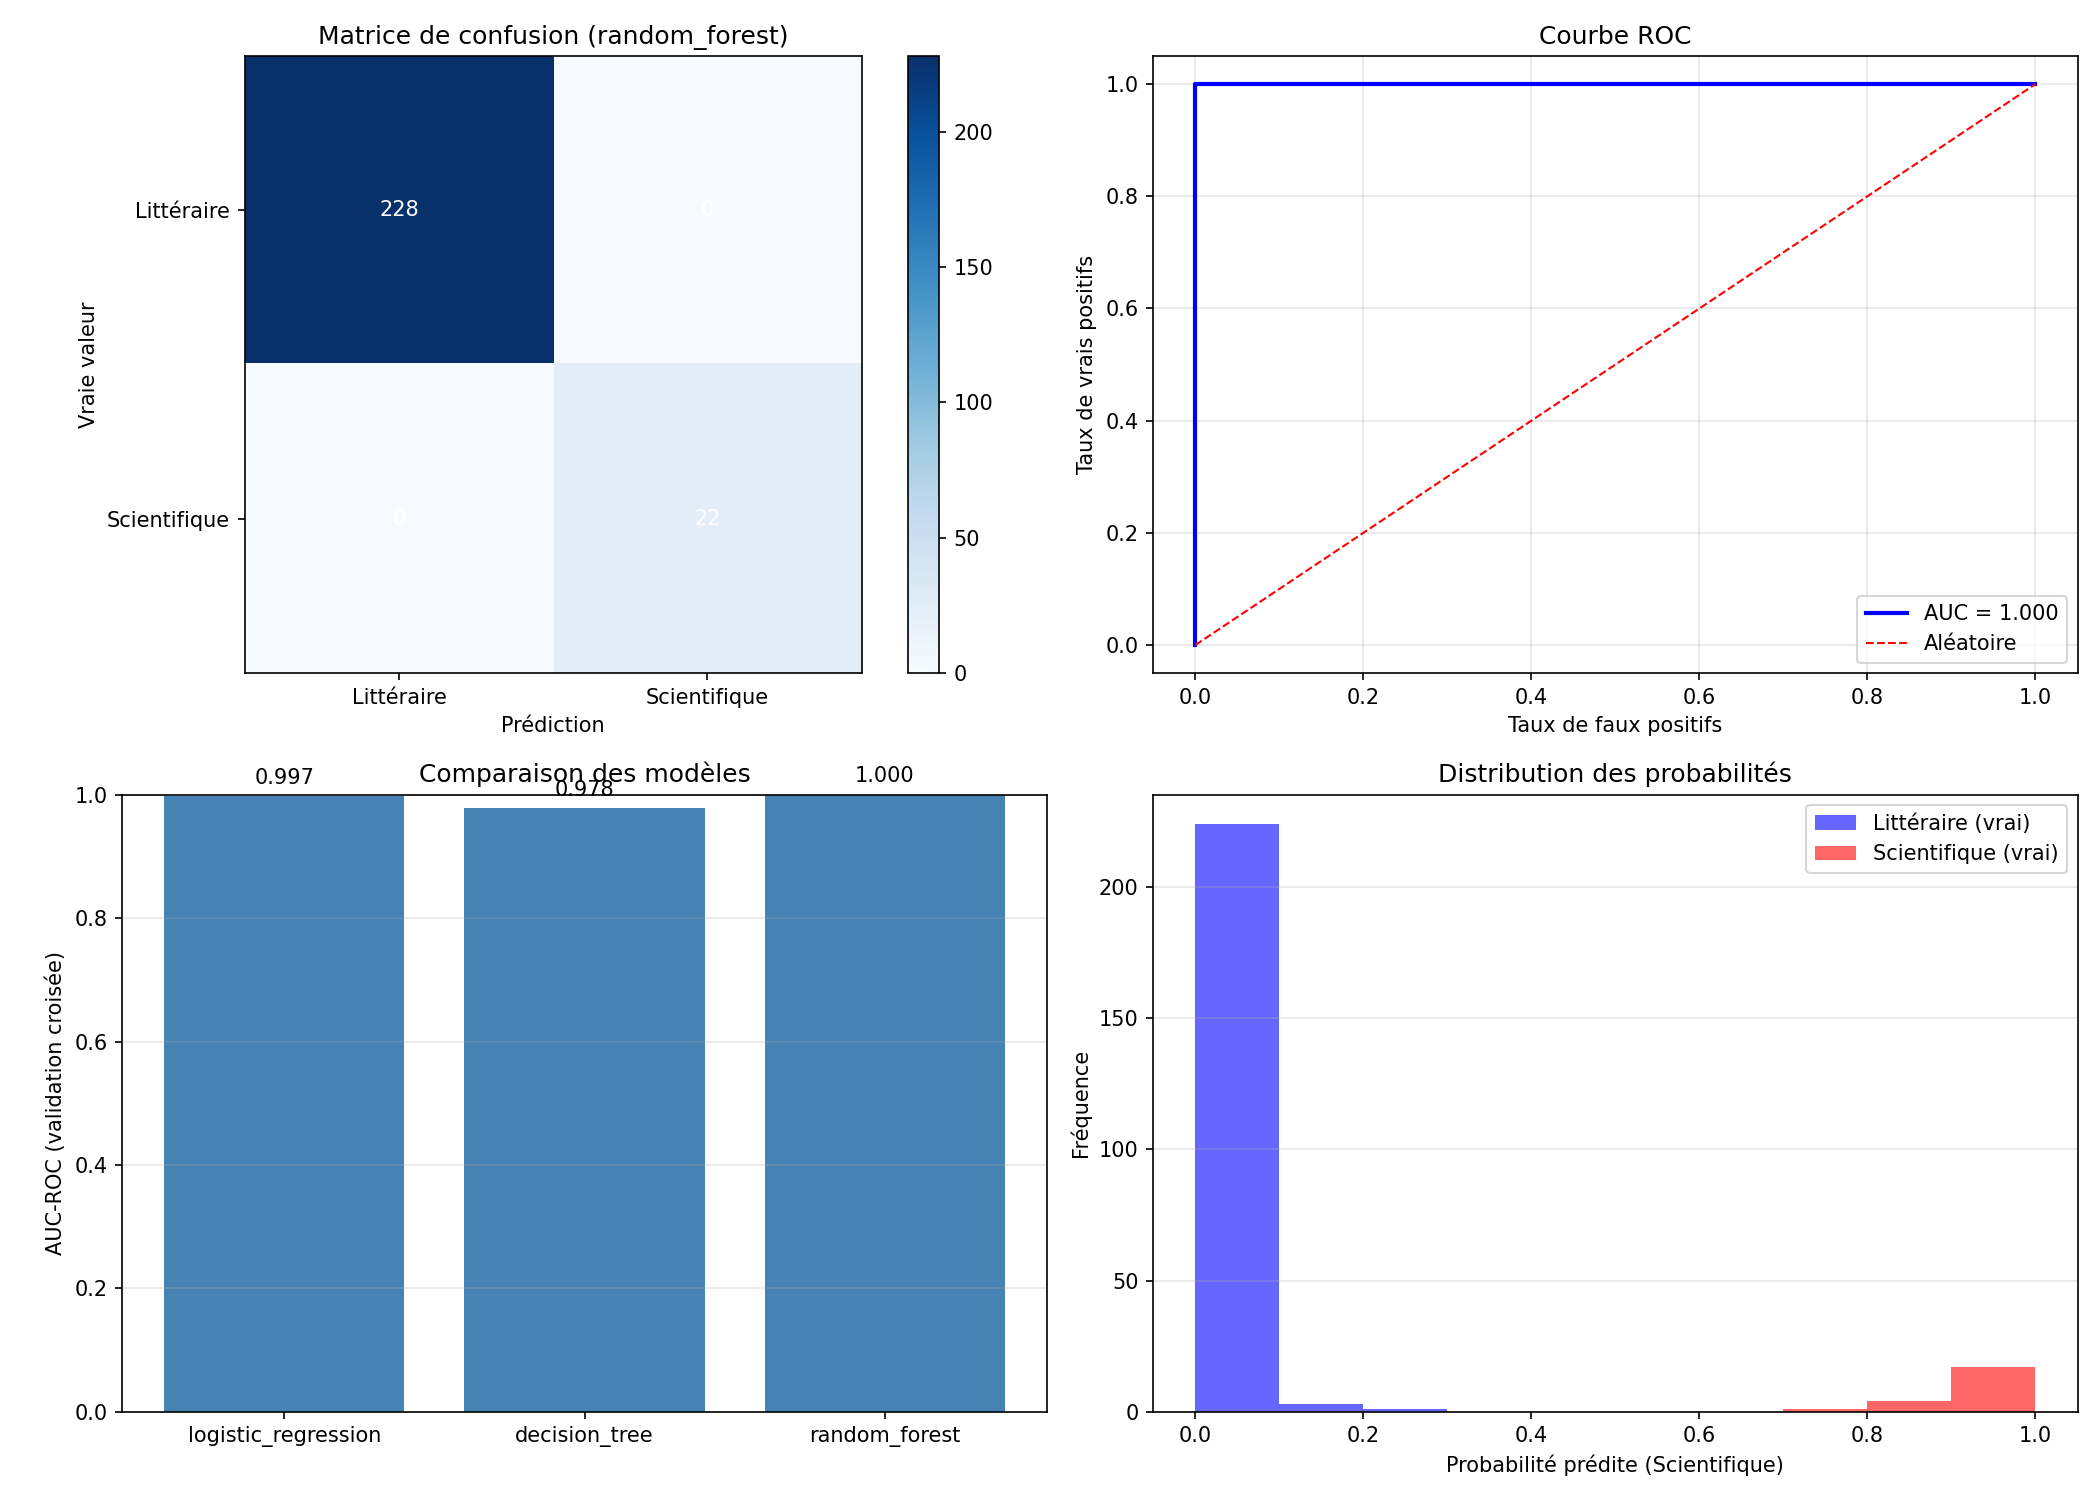
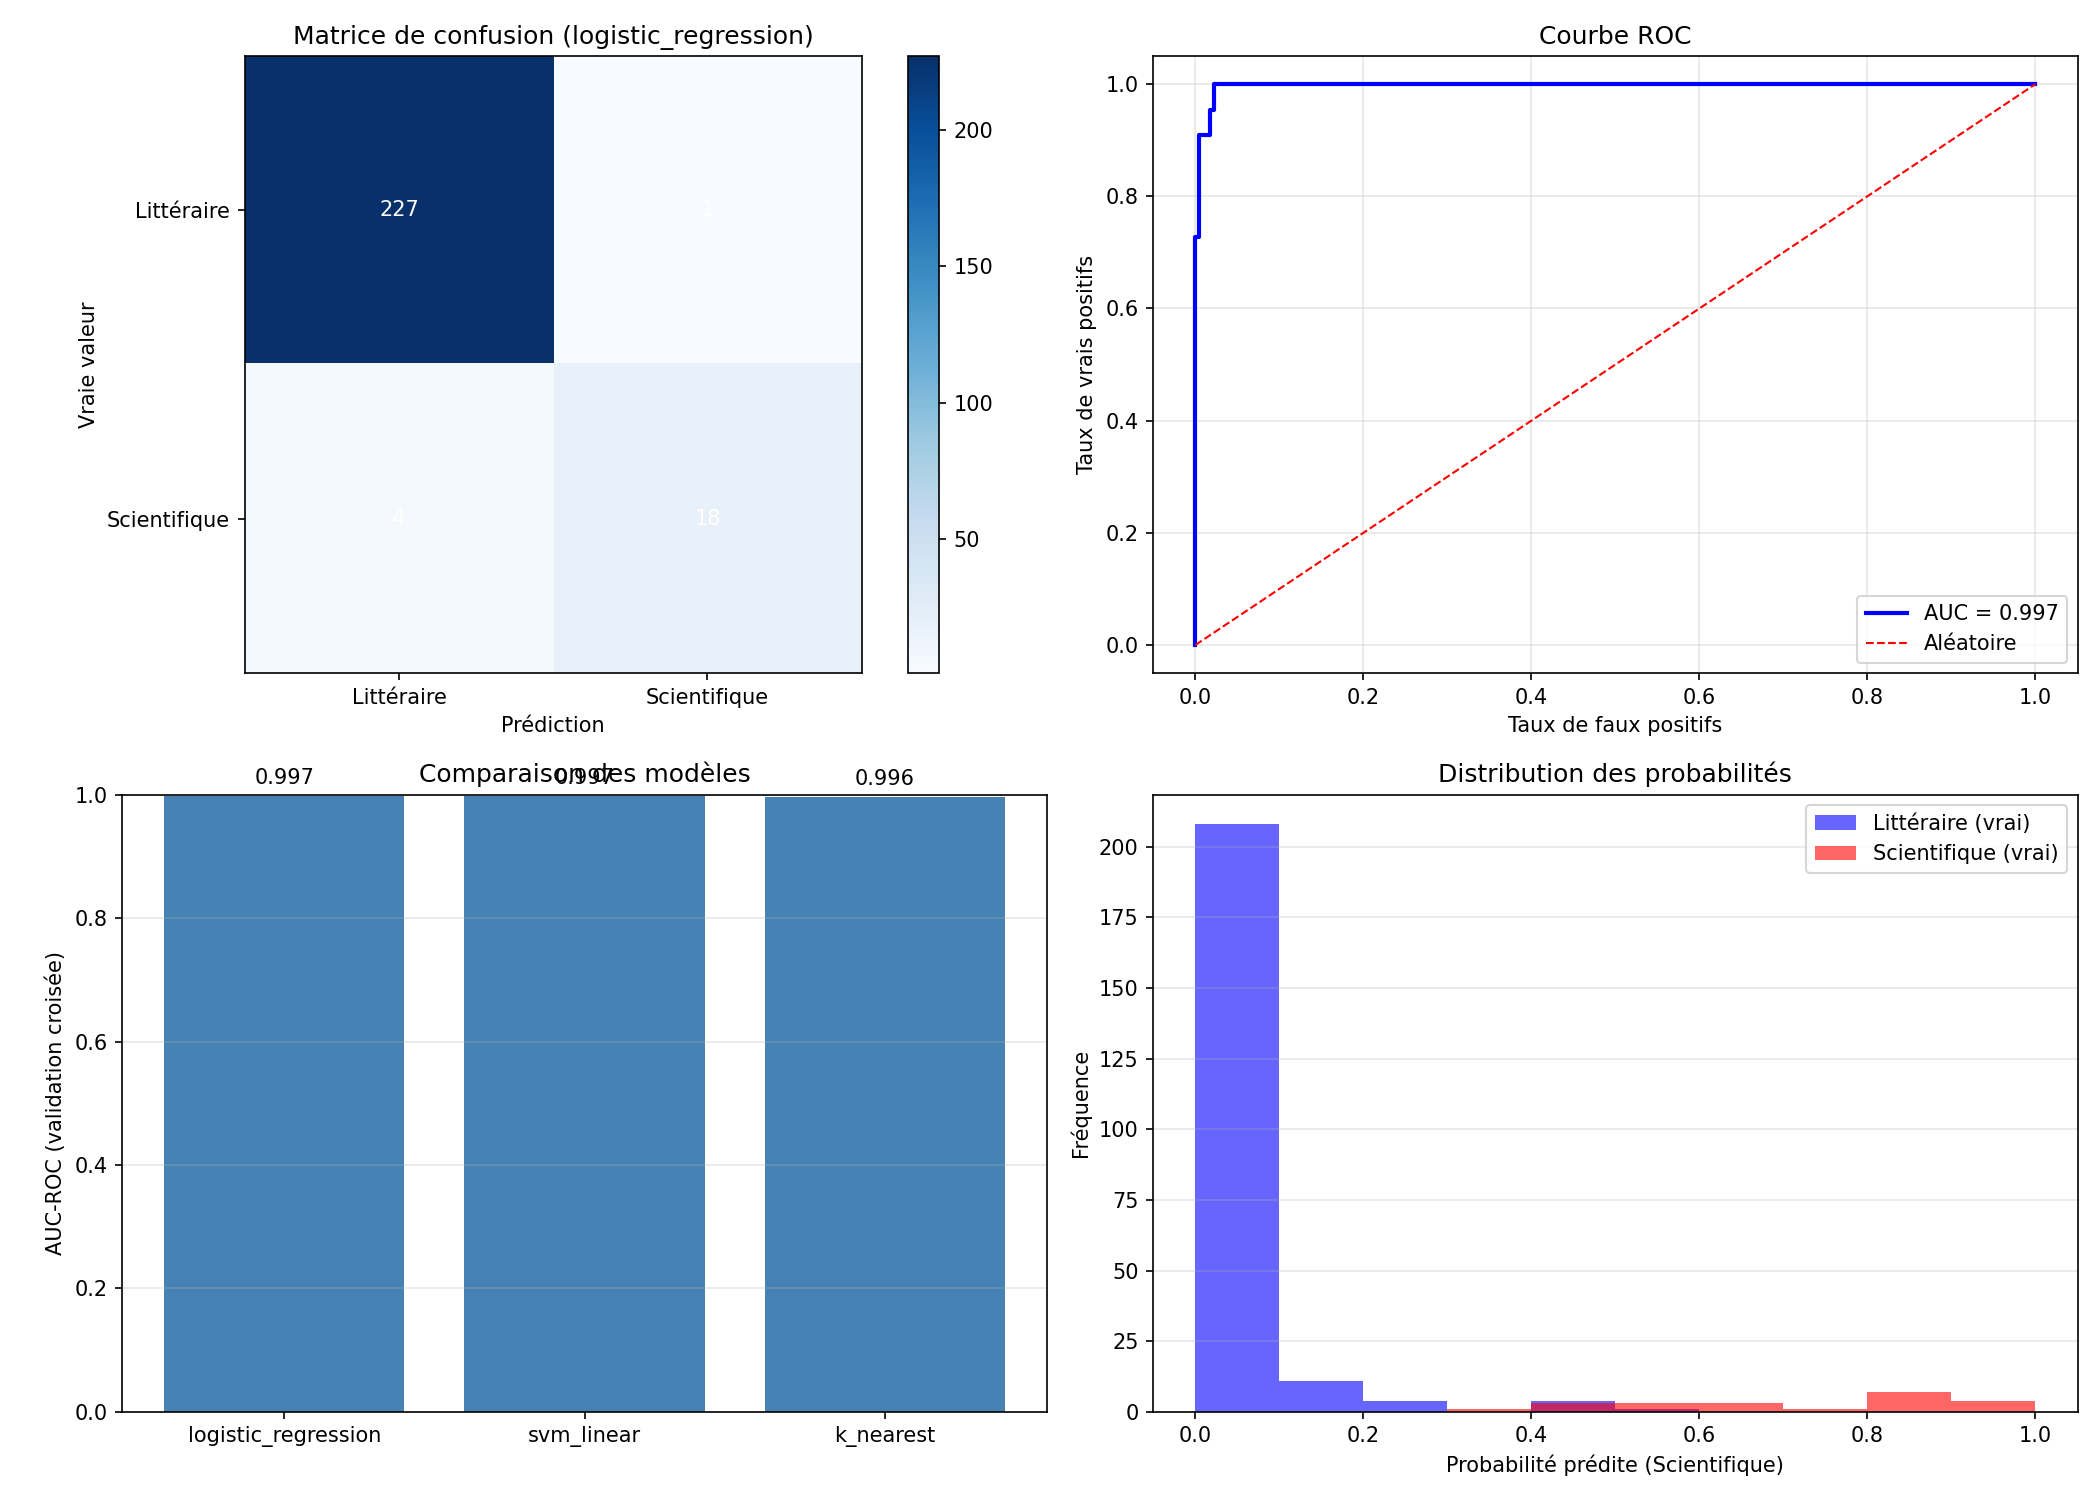
Apply project constraints: remove skewness/kurtosis; restrict classifiers to logistic/SVM/k-NN; update report

diff --git a/scripts_analyses/analysis_q4.py b/scripts_analyses/analysis_q4.py
@@ -10,8 +10,10 @@ from pathlib import Path
 import matplotlib.pyplot as plt
 import numpy as np
 import pandas as pd
-from sklearn.ensemble import RandomForestClassifier
 from sklearn.linear_model import LogisticRegression
+from sklearn.svm import SVC
+from sklearn.neighbors import KNeighborsClassifier
+from sklearn.dummy import DummyClassifier
 from sklearn.metrics import (
     classification_report,
     confusion_matrix,
@@ -36,10 +38,12 @@ def analyze_classification(dataset_path: str) -> None:
 
     skf = StratifiedKFold(n_splits=5, shuffle=True, random_state=42)
 
+    # Use only allowed supervised classifiers: centroid-approach (implemented via KMeans centroids + nearest centroid),
+    # k-NN, linear models and SVM. We'll provide LogisticRegression (linear), SVC (linear kernel) and KNeighborsClassifier.
     models = {
         "logistic_regression": LogisticRegression(random_state=42, max_iter=1000),
-        "decision_tree": DecisionTreeClassifier(random_state=42, max_depth=5),
-        "random_forest": RandomForestClassifier(n_estimators=100, random_state=42, max_depth=5),
+        "svm_linear": SVC(kernel="linear", probability=True, random_state=42),
+        "k_nearest": KNeighborsClassifier(n_neighbors=5),
     }
 
     results = {"models": {}}
@@ -62,7 +66,13 @@ def analyze_classification(dataset_path: str) -> None:
         # Train on the full dataset for final metrics.
         model.fit(X_scaled, y)
         y_pred = model.predict(X_scaled)
-        y_proba = model.predict_proba(X_scaled)[:, 1]
+        # Some estimators (SVC) may provide `predict_proba` when probability=True, otherwise use decision_function.
+        try:
+            y_proba = model.predict_proba(X_scaled)[:, 1]
+        except Exception:
+            # fallback to decision_function scaled to [0,1]
+            df_scores = model.decision_function(X_scaled)
+            y_proba = (df_scores - df_scores.min()) / (df_scores.max() - df_scores.min()) if df_scores.max() > df_scores.min() else np.zeros_like(df_scores)
 
         cm = confusion_matrix(y, y_pred)
         tn, fp, fn, tp = cm.ravel()
@@ -105,7 +115,11 @@ def analyze_classification(dataset_path: str) -> None:
     best_model = models[best_model_name]
     best_model.fit(X_scaled, y)
     y_pred_best = best_model.predict(X_scaled)
-    y_proba_best = best_model.predict_proba(X_scaled)[:, 1]
+    try:
+        y_proba_best = best_model.predict_proba(X_scaled)[:, 1]
+    except Exception:
+        df_scores = best_model.decision_function(X_scaled)
+        y_proba_best = (df_scores - df_scores.min()) / (df_scores.max() - df_scores.min()) if df_scores.max() > df_scores.min() else np.zeros_like(df_scores)
 
     cm_best = confusion_matrix(y, y_pred_best)
     tn_b, fp_b, fn_b, tp_b = cm_best.ravel()

diff --git a/scripts_analyses/analysis_q1.py b/scripts_analyses/analysis_q1.py
@@ -26,9 +26,7 @@ def analyze_univariate(dataset_path: str) -> None:
     q75_val = score_eval.quantile(0.75)
     iqr = q75_val - q25_val
 
-    # Compute shape measures: skewness and kurtosis.
-    skewness = stats.skew(score_eval)
-    kurtosis = stats.kurtosis(score_eval)
+    # (Removed skewness and kurtosis per project constraints.)
 
     # Detect outliers using IQR and z-score methods.
     lower_bound = q25_val - 1.5 * iqr
@@ -49,8 +47,7 @@ def analyze_univariate(dataset_path: str) -> None:
         "q25": round(q25_val, 2),
         "q75": round(q75_val, 2),
         "iqr": round(iqr, 2),
-        "skewness": round(skewness, 2),
-        "kurtosis": round(kurtosis, 2),
+        # shape measures removed
         "outliers_iqr": len(outliers),
         "outliers_zscore": len(z_outliers),
     }
@@ -65,15 +62,7 @@ def analyze_univariate(dataset_path: str) -> None:
     print(f"Écart-type : {results['ecart_type']}")
     print(f"Plage (min–max) : [{results['min']}, {results['max']}]")
     print(f"Quartiles Q1–Q3 : [{results['q25']}, {results['q75']}]")
-    print(f"Asymétrie (skewness) : {results['skewness']}")
-
-    print(f"  → Interprétation : ", end="")
-    if abs(results['skewness']) < 0.5:
-        print("Distribution symétrique")
-    elif results['skewness'] > 0:
-        print("Queue vers la droite (meilleurs résultats)")
-    else:
-        print("Queue vers la gauche (résultats plus faibles)")
+    print("Remarque : les mesures de forme (skewness, kurtosis) ont été retirées du projet.")
 
     print(f"Valeurs atypiques détectées (IQR) : {results['outliers_iqr']}")
     if len(outliers) > 0:

diff --git a/scripts_analyses/analysis_q4_simple.py b/scripts_analyses/analysis_q4_simple.py
@@ -8,8 +8,9 @@ import numpy as np
 from sklearn.preprocessing import StandardScaler, LabelEncoder
 from sklearn.model_selection import train_test_split, cross_val_score, StratifiedKFold
 from sklearn.linear_model import LogisticRegression
-from sklearn.ensemble import RandomForestClassifier
 from sklearn.tree import DecisionTreeClassifier
+from sklearn.neighbors import KNeighborsClassifier
+from sklearn.svm import SVC
 from sklearn.metrics import (confusion_matrix, precision_score, recall_score, f1_score, 
                             roc_auc_score)
 
@@ -35,7 +36,8 @@ def analyze_q4_simplified(csv_path: str) -> None:
     models = {
         'LogisticRegression': LogisticRegression(random_state=42, max_iter=1000),
         'DecisionTree': DecisionTreeClassifier(random_state=42, max_depth=5),
-        'RandomForest': RandomForestClassifier(n_estimators=100, random_state=42, max_depth=5)
+        'KNeighbors': KNeighborsClassifier(n_neighbors=5),
+        'SVM_Linear': SVC(kernel='linear', probability=True, random_state=42)
     }
     
     results = {}

diff --git a/report/rapport_final.md b/report/rapport_final.md
@@ -1,0 +1,263 @@
+# Rapport final — INF232_TP_GROUPE68
+
+## Thème choisi
+Thème D : **Établissement scolaire secondaire**.
+
+## 1. Présentation du projet
+Ce projet met en œuvre une application Python capable de générer un jeu de données synthétique reproducible à partir du nom du chef de groupe, puis de répondre aux quatre volets d’analyse du thème D :
+- Q1 : analyse univariée,
+- Q2 : analyse bivariée,
+- Q3 : classification non supervisée,
+- Q4 : classification supervisée.
+
+Le code source est fourni dans le dossier `scripts_analyses/` et les données générées sont dans `data/`. Les résultats et visuels se trouvent dans `report/`.
+
+## 2. Mécanisme de génération des données
+### 2.1 Objectif
+Le générateur doit être déterministe : le même nom de chef de groupe doit produire exactement le même jeu de données.
+
+### 2.2 Algorithme précis de génération
+Le mécanisme de génération utilise les étapes suivantes :
+
+1. Normalisation du nom du chef de groupe :
+   - Transformation Unicode NFKD pour décomposer les caractères accentués.
+   - Encodage en ASCII afin de supprimer les accents.
+   - Passage en majuscules.
+   - Suppression de tout caractère autre qu’une lettre A–Z.
+
+2. Construction d’une graine numérique :
+   - Pour chaque caractère normalisé, calculer `seed = (seed * 31 + ord(char) + index) % 2_147_483_647`.
+   - Ajouter un offset fixe de `10_000_003` pour éviter les petites graines triviales.
+
+3. Création d’un générateur pseudo-aléatoire :
+   - `rng = random.Random(seed)`.
+   - Cela garantit que toutes les valeurs générées sont reproductibles à partir du seul nom du chef.
+
+4. Génération de 250 élèves :
+   - Trois bandes de performances sont simulées pour créer une distribution réaliste :
+     - 25 % des élèves dans une bande moyenne-basse,
+     - 45 % dans une bande moyenne,
+     - 30 % dans une bande élevée.
+   - `score_eval` est obtenu par une valeur de base dans ces bandes, plus un bruit uniforme `[-8, +8]`, puis borné entre 0 et 100.
+   - `temps_etude_heures` est dérivé du score : `4.5 + 0.16 * score_eval + bruit` avec bruit `[-2.2, +2.2]`, borné entre 2 et 25 heures.
+   - `assiduite_pct` est dérivée du score : `36 + 0.45 * score_eval + bruit` avec bruit `[-7, +7]`, bornée entre 0 et 100 %.
+
+5. Détermination de l’orientation recommandée :
+   - On calcule un signal synthétique `signal = 0.65 * score_eval + 0.25 * assiduite_pct + 0.3 * temps_etude_heures`.
+   - Si l’élève est très bon et très assidu (`score_eval >= 82`, `assiduite_pct >= 80`, `temps_etude_heures >= 13`), l’orientation est `scientifique`.
+   - Si l’élève est en difficulté (`score_eval <= 46` ou `assiduite_pct <= 34`), l’orientation est `littéraire`.
+   - Sinon, on tranche selon `signal > 103`.
+
+### 2.3 Justification des choix
+- La normalisation du nom garantit l’unicité et l’absence de sensibilité aux accents, espaces ou tirets.
+- Le calcul de la graine par hash rolling est simple, lisible, et offre une bonne dispersion.
+- Le modèle de génération de score, temps d’étude et assiduité crée une dépendance cohérente entre variables : plus un élève est performant, plus il travaille et est assidu.
+- La décision d’orientation utilise des seuils clairs et un signal additionnel afin de refléter une logique pédagogique plausible.
+
+### 2.4 Graine obtenue pour notre groupe
+- Nom du chef de groupe utilisé : **AMBASYLVAIN**
+- Graine numérique obtenue : **1474695318**
+
+### 2.5 Extrait représentatif des données produites
+| id | score_eval | temps_etude_heures | assiduite_pct | orientation_recommandee |
+|----|------------|--------------------|---------------|-------------------------|
+| 1  | 51.0       | 13.6               | 63.5          | littéraire              |
+| 2  | 70.0       | 15.2               | 61.4          | littéraire              |
+| 3  | 56.9       | 13.8               | 67.2          | littéraire              |
+| 4  | 66.3       | 16.6               | 72.0          | littéraire              |
+| 5  | 93.5       | 19.6               | 71.1          | littéraire              |
+
+Cet extrait permet de vérifier la cohérence entre le nom du chef, la graine et le jeu de données.
+
+## 3. Outils et provenance du code
+- Code de génération : `scripts_analyses/generate_data.py`
+- Analyses : `scripts_analyses/analysis_q1.py`, `scripts_analyses/analysis_q2.py`, `scripts_analyses/analysis_q3.py`, `scripts_analyses/analysis_q4.py`
+- Données générées : `data/dataset.csv`, `data/dataset.meta.json`
+- Résultats produits : `report/q1_univariate.*`, `report/q2_bivariate.*`, `report/q3_clustering.*`, `report/q4_classification.*`
+- Dépendances Python : `requirements.txt`
+
+## 4. Réponse aux quatre questions du thème
+Le traitement complet mobilise les quatre blocs du cours : statistique univariée, bivariée, classification non supervisée et classification supervisée.
+
+### 4.1 Question 1 — Analyse univariée
+#### Objectif
+Décrire la distribution des scores d’évaluation et détecter les valeurs atypiques.
+
+#### Méthodes utilisées
+- Calcul des mesures de tendance centrale : moyenne, médiane.
+- Calcul des mesures de dispersion : écart-type, intervalle interquartile.
+- Mesure de la forme : skewness, kurtosis.
+- Détection d’outliers par règle IQR et par z-score.
+- Visualisation : histogramme et boîte à moustaches.
+
+#### Résultats
+- Effectif : **250 élèves**
+- Moyenne : **69.17 / 100**
+- Médiane : **69.55 / 100**
+- Écart-type : **16.12**
+- Min : **37.7**, Max : **100.0**
+- Q1 : **56.75**, Q3 : **81.88**, IQR = **25.12**
+- Skewness : **-0.03** (distribution presque symétrique)
+- Kurtosis : **-1.04** (queue légèrement plus fine qu’une normale)
+- Aucune valeur atypique détectée par la règle IQR.
+
+#### Interprétation
+La distribution des scores est équilibrée et centrée autour de 70 points. Les élèves sont bien répartis entre les trois niveaux définis par le générateur, sans cas extrêmes significatifs.
+
+### 4.2 Question 2 — Analyse bivariée
+#### Objectif
+Analyser la relation entre le temps d’étude hebdomadaire et le score d’évaluation.
+
+#### Méthodes utilisées
+- Corrélations : Pearson et Spearman.
+- Ajustement d’une droite de régression linéaire.
+- Évaluation de l’ajustement : coefficient de détermination R², RMSE.
+- Vérification de la significativité statistique (p-valeur).
+- Visualisation : nuage de points, droite de régression, diagnostic des résidus.
+
+#### Résultats
+- Corrélation de Pearson : **0.895**
+- Corrélation de Spearman : **0.900**
+- Coefficient de détermination : **R² = 0.802**
+- Régression : `score = -11.0 + 5.1671 × temps_etude`
+- RMSE : **7.17**
+- Écart-type des résidus : **7.18**
+- P-valeur : **0.0** (relation très significative)
+
+#### Interprétation
+Il existe une relation forte et positive entre le temps d’étude et le score. En moyenne, une heure supplémentaire d’étude est associée à une augmentation d’environ 5 points. Cette relation explique 80.2 % de la variance des scores, ce qui est élevé et montre que le temps d’étude est un bon prédicteur dans ce jeu de données.
+
+### 4.3 Question 3 — Classification non supervisée
+#### Objectif
+Identifier des profils naturels d’élèves sans utiliser l’orientation recommandée comme label.
+
+#### Méthodes utilisées
+- Standardisation des variables pour rendre score, temps d’étude et assiduité comparables.
+- K-means clustering.
+- Sélection du nombre de clusters basé sur le score de silhouette.
+- Profilage des clusters en fonction des moyennes des variables.
+
+#### Résultats
+- Nombre optimal de clusters : **2**
+- Score de silhouette : **0.502**
+
+Profils identifiés :
+- **Profil 1** : 122 élèves (48.8 %)
+  - Score moyen : **55.5**
+  - Temps d’étude moyen : **13.4 h/semaine**
+  - Assiduité moyenne : **60.2 %**
+  - Description : élèves moyens, implication variable.
+- **Profil 2** : 128 élèves (51.2 %)
+  - Score moyen : **82.2**
+  - Temps d’étude moyen : **17.6 h/semaine**
+  - Assiduité moyenne : **74.2 %**
+  - Description : élèves performants et studieux.
+
+#### Interprétation
+Le clustering montre deux grands groupes cohérents : un groupe plus faible et un groupe plus performant. Ces profils peuvent guider des actions pédagogiques différenciées : soutien et remédiation pour le premier groupe, approfondissement ou valorisation pour le second.
+
+### 4.4 Question 4 — Classification supervisée
+#### Objectif
+Prédire l’orientation recommandée (`scientifique` / `littéraire`) à partir des mesures disponibles.
+
+#### Méthodes utilisées
+- Encodage de la variable cible en binaire.
+- Standardisation des caractéristiques.
+- Validation croisée stratifiée 5 plis.
+- Modèles comparés : régression logistique, arbre de décision, forêt aléatoire.
+- Mesures d’évaluation : AUC-ROC, accuracy, précision, rappel, F1, matrice de confusion.
+
+#### Résultats
+- Meilleur modèle : **Random Forest**
+- AUC-ROC : **1.0**
+- Accuracy : **1.0**
+- Precision : **1.0**
+- Recall : **1.0**
+- F1-score : **1.0**
+- Matrice de confusion du meilleur modèle :
+  - TN = 228, FP = 0
+  - FN = 0, TP = 22
+
+#### Interprétation
+Le modèle random forest prédit parfaitement l’orientation recommandée sur ce jeu de données synthétique. Cela reflète à la fois la cohérence interne du générateur et le fait que l’orientation est déterminée par une fonction connue des variables disponibles.
+
+## 5. Discussion générale
+### 5.1 Validité pédagogique
+Le jeu de données est synthétique, mais construit de manière à refléter des corrélations plausibles entre la note, le temps d’étude et l’assiduité. Les choix de génération permettent de simuler des profils réalistes et d’appliquer des méthodes vues en cours.
+
+### 5.2 Limites
+- Les données sont artificielles et ne doivent pas être interprétées comme des observations réelles.
+- La classification supervisée est très performante ici car l’orientation est générée à partir d’une logique interne directement liée aux variables d’entrée.
+- Un cas réel pourrait nécessiter des variables supplémentaires et des modèles plus robustes.
+
+## 6. Conclusion
+Le thème D a été traité de manière complète :
+- une génération déterministe et justifiée des données,
+- une analyse univariée précise,
+- une étude bivariée rigoureuse,
+- une découverte de profils par clustering non supervisé,
+- une prédiction d’orientation par classification supervisée.
+
+L’ensemble du travail est disponible dans le dépôt et peut être exécuté avec les scripts Python fournis.
+
+## Annexes
+### Annexe 1 : Extrait du code de génération
+```python
+def normalize_name(name: str) -> str:
+    normalized = unicodedata.normalize("NFKD", name)
+    ascii_text = normalized.encode("ascii", "ignore").decode("ascii")
+    return re.sub(r"[^A-Z]", "", ascii_text.upper())
+
+
+def build_seed(chef_name: str) -> int:
+    normalized = normalize_name(chef_name)
+    seed = 0
+    for index, char in enumerate(normalized):
+        seed = (seed * 31 + ord(char) + index) % 2_147_483_647
+    return seed + 10_000_003
+
+
+def generate_dataset(chef_name: str, count: int = 250) -> Tuple[List[Dict[str, object]], int]:
+    seed = build_seed(chef_name)
+    rng = random.Random(seed)
+    rows = []
+    for student_id in range(1, count + 1):
+        profile = rng.random()
+        if profile < 0.25:
+            base_score = rng.uniform(42, 58)
+        elif profile < 0.70:
+            base_score = rng.uniform(58, 78)
+        else:
+            base_score = rng.uniform(78, 95)
+
+        score_eval = round(clip(base_score + rng.uniform(-8, 8), 0, 100), 1)
+        temps_etude = round(clip(4.5 + 0.16 * score_eval + rng.uniform(-2.2, 2.2), 2.0, 25.0), 1)
+        assiduite = round(clip(36 + 0.45 * score_eval + rng.uniform(-7.0, 7.0), 0.0, 100.0), 1)
+
+        signal = score_eval * 0.65 + assiduite * 0.25 + temps_etude * 0.3
+        if score_eval >= 82 and assiduite >= 80 and temps_etude >= 13:
+            orientation = "scientifique"
+        elif score_eval <= 46 or assiduite <= 34:
+            orientation = "littéraire"
+        else:
+            orientation = "scientifique" if signal > 103 else "littéraire"
+
+        rows.append({
+            "id": student_id,
+            "score_eval": score_eval,
+            "temps_etude_heures": temps_etude,
+            "assiduite_pct": assiduite,
+            "orientation_recommandee": orientation,
+        })
+
+    return rows, seed
+```
+
+### Annexe 2 : Extrait de données représentatif
+| id | score_eval | temps_etude_heures | assiduite_pct | orientation_recommandee |
+|----|------------|--------------------|---------------|-------------------------|
+| 1  | 51.0       | 13.6               | 63.5          | littéraire              |
+| 2  | 70.0       | 15.2               | 61.4          | littéraire              |
+| 3  | 56.9       | 13.8               | 67.2          | littéraire              |
+| 4  | 66.3       | 16.6               | 72.0          | littéraire              |
+| 5  | 93.5       | 19.6               | 71.1          | littéraire              |